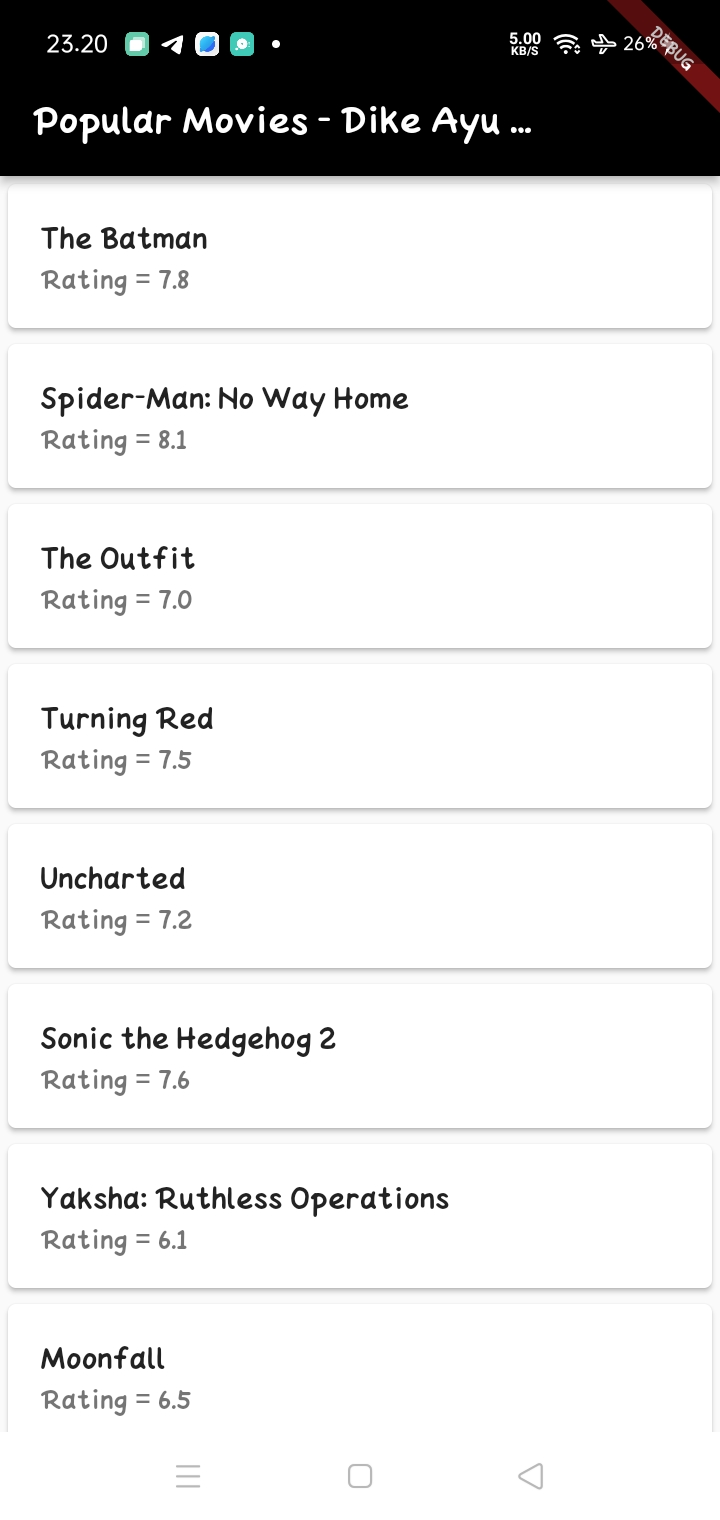
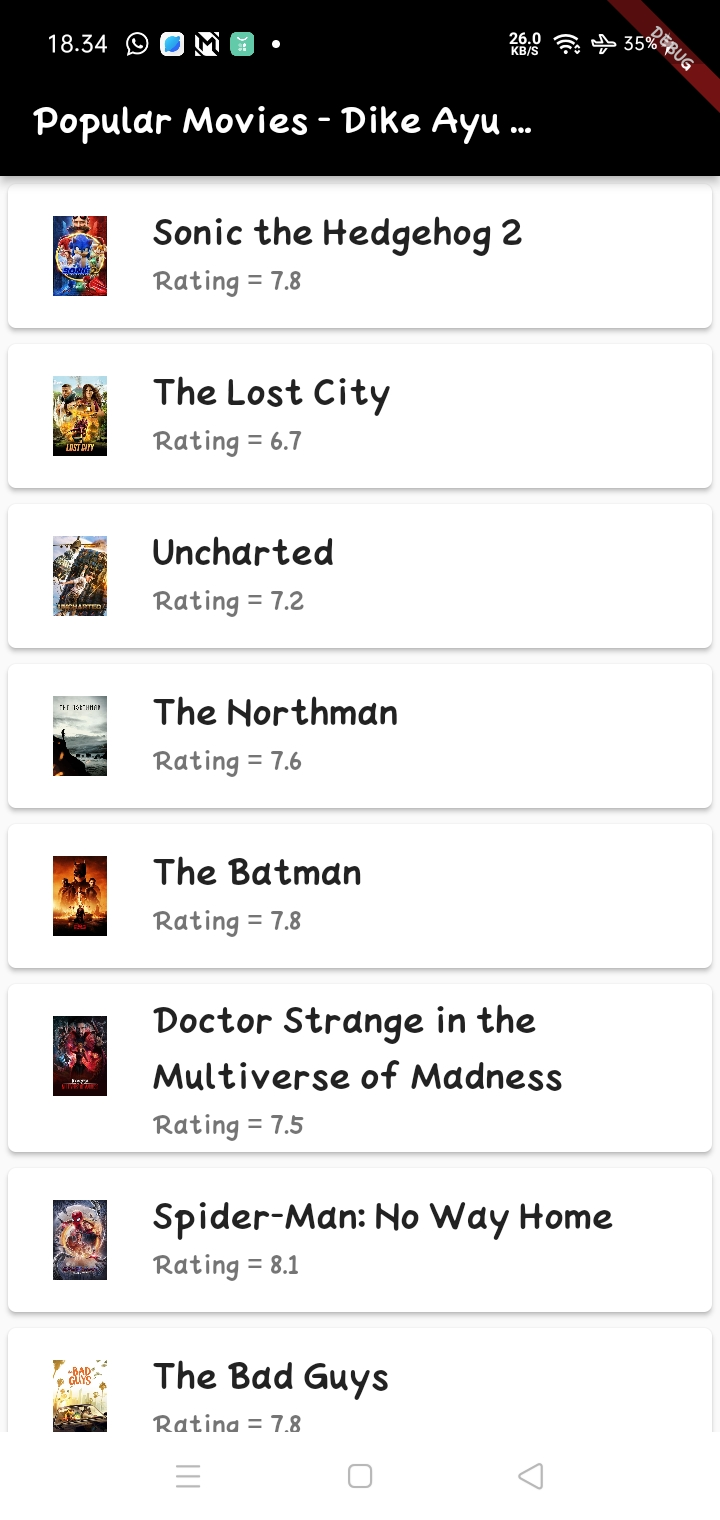
Revisi Tugas 7

diff --git a/lib/pages/movie_list.dart b/lib/pages/movie_list.dart
@@ -50,7 +50,15 @@ class _MovieListState extends State<MovieList> {
                     color: Colors.white,
                     elevation: 2.0,
                     child: ListTile(
-                        title: Text(movies[position].title),
+                        leading: CircleAvatar(
+                          backgroundColor: Colors.white,
+                          child: Image.network(
+                              'https://image.tmdb.org/t/p/w300' +
+                                  movies[position].posterPath),
+                        ),
+                        title: Text(movies[position].title,
+                            style: TextStyle(
+                                fontSize: 20, fontWeight: FontWeight.bold)),
                         subtitle: Text(
                           'Rating = ' + movies[position].voteAverage.toString(),
                         ),
